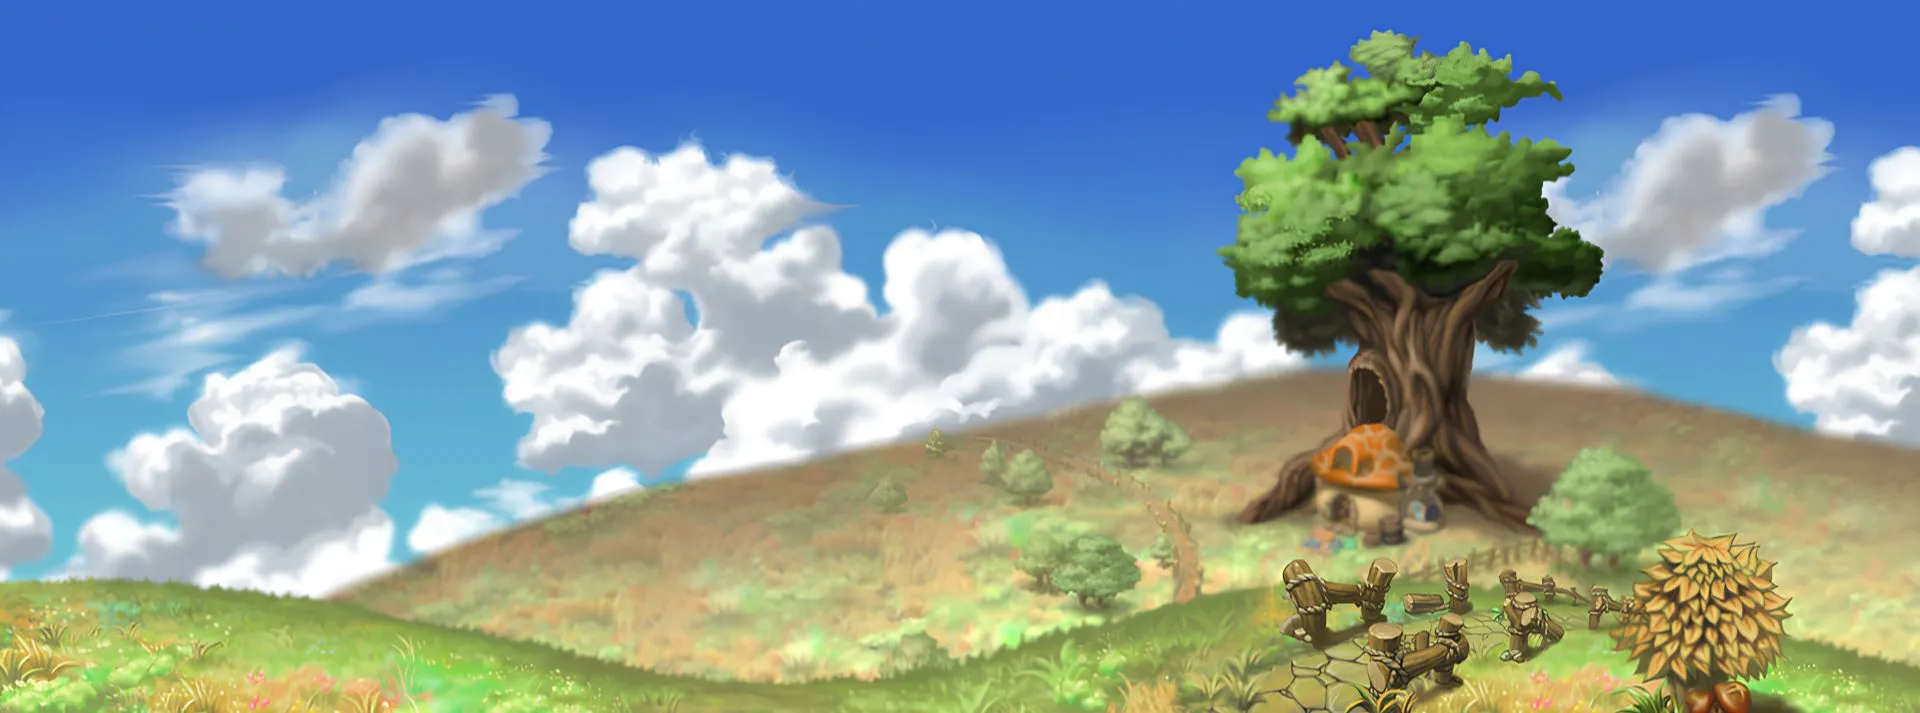
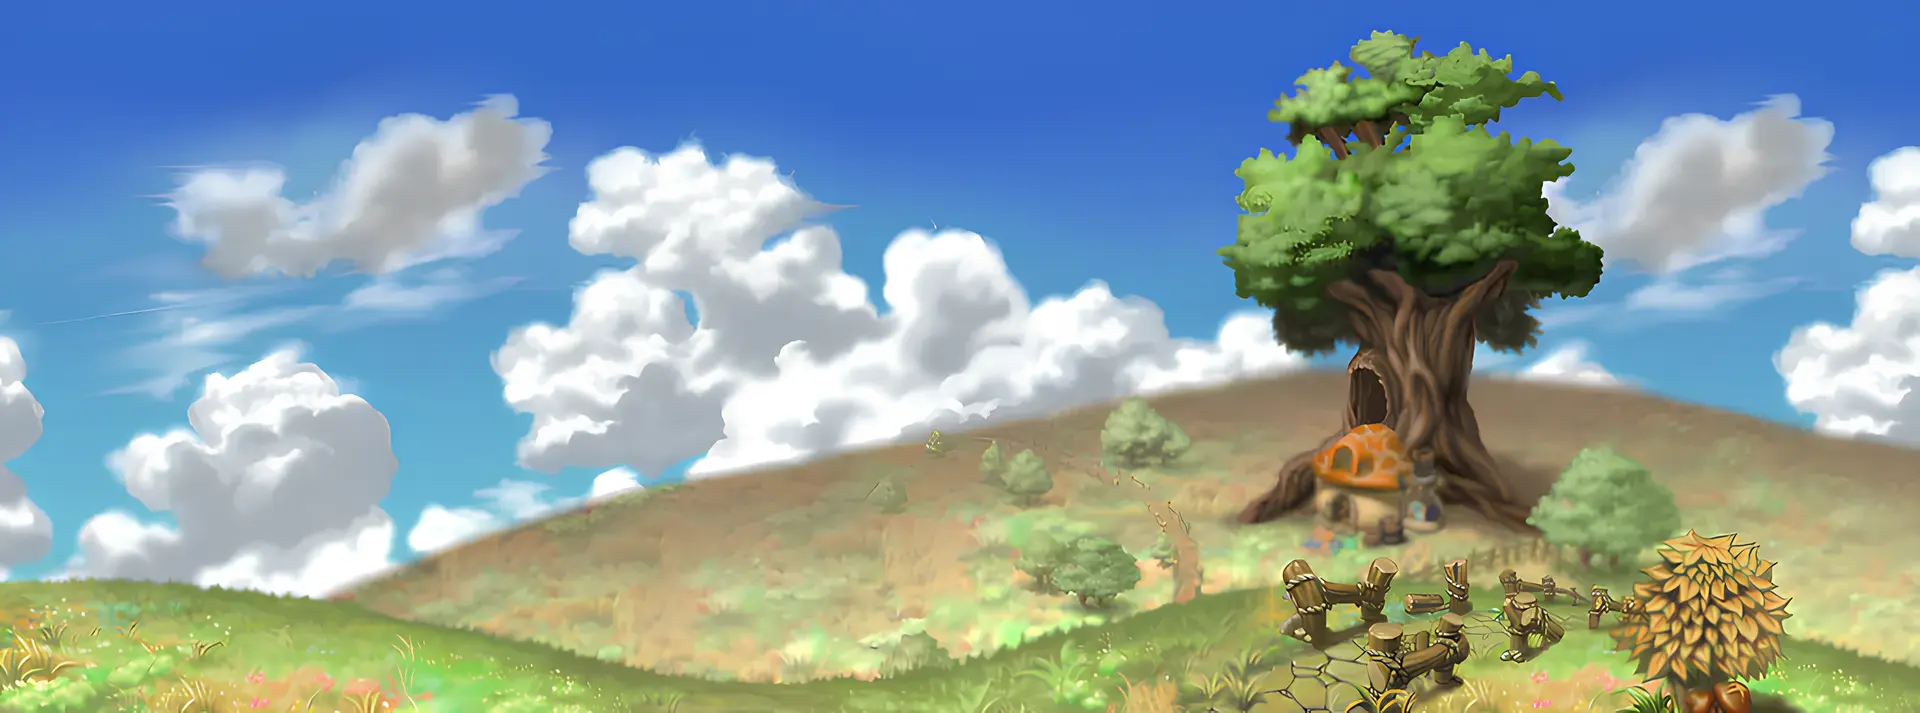
feat: 기기에 따른 모바일용 백그라운드 이미지 적용

diff --git a/src/components/main/BackgroundImage.jsx b/src/components/main/BackgroundImage.jsx
@@ -1,18 +1,38 @@
 import React, { useEffect, useState } from 'react';
 import styled from 'styled-components';
+import whiteBGI_mobile from '../../assets/Henesys-mobile.webp';
+import darkBGI_mobile from '../../assets/Kerning-City-mobile.webp';
 import whiteBGI from '../../assets/Henesys.webp';
 import darkBGI from '../../assets/Kerning-City.webp';
 import { useTheme } from '../../context/ThemeProvider';
 
-
 export const BackgroundImage = () => {
-  const { theme } = useTheme(); 
-  const [imageSrc, setImageSrc] = useState(theme === 'dark' ? darkBGI : whiteBGI);
+  const { theme } = useTheme();
+  const [windowWidth, setWindowWidth] = useState(window.innerWidth);
+
+  const getImageSrc = (width, theme) => {
+    if (width <= 1024) { 
+      return theme === 'dark' ? darkBGI_mobile : whiteBGI_mobile;
+    } else { 
+      return theme === 'dark' ? darkBGI : whiteBGI;
+    }
+  };
+
+  const [imageSrc, setImageSrc] = useState(getImageSrc(windowWidth, theme));
 
   useEffect(() => {
-    // 테마가 변경될 때마다 이미지 소스를 업데이트합니다.
-    setImageSrc(theme === 'dark' ? darkBGI : whiteBGI);
-  }, [theme]); // 테마 모드가 변경될 때마다 이 effect가 실행됩니다.
+    const handleResize = () => {
+      setWindowWidth(window.innerWidth);
+    };
+
+    window.addEventListener('resize', handleResize);
+
+    return () => window.removeEventListener('resize', handleResize);
+  }, []);
+
+  useEffect(() => {
+    setImageSrc(getImageSrc(windowWidth, theme));
+  }, [theme, windowWidth]);
 
   return (
     <Container>
@@ -27,8 +47,8 @@ const Container = styled.div`
   img {
     display: block;
     object-fit: cover;
-    width: 100%;
+    width: 100vw;
     height: auto;
-    min-height: 105vh;
+    min-height: 100vh;
   }
 `;
